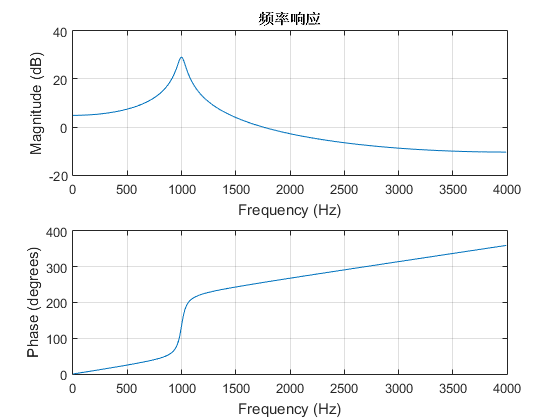
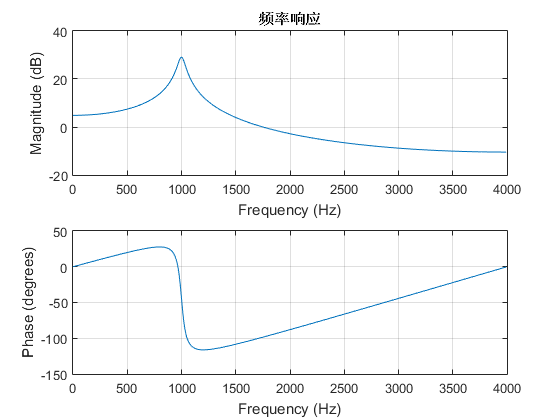
Fix z-transform mistake

diff --git a/README.md b/README.md
@@ -3,11 +3,11 @@ Homework No.2 for summer course: MATLAB
 
 ## 语音预测模型
 
-1. 给定 $e(n)=s(n)-a_1s(n-1)-a_2s(n-2)$
+1. 给定 $$e(n)=s(n)-a_1s(n-1)-a_2s(n-2)$$
 
-    1. 假设$e(n)$是输入信号, $s(n)$是输出信号, 则上述滤波器的传递函数为 $$H(s)=\frac{1}{1-a_1s-a_2s^2}$$
+    1. 假设$e(n)$是输入信号, $s(n)$是输出信号, 则上述滤波器的传递函数为 $$H(z)=\frac{z^2}{z^2-a_1z-a_2}$$
 
-    2. 如果$a_1=1.3789, a_2=-0.9506$, 则利用`[Z,P,K]=tf2zp(b,a)`或`roots(poly)`等函数可求出系统极点为 $$p_{1,2}=0.7253\pm 0.7252j=1.0257e^{\pm j0.7854}$$
+    2. 如果$a_1=1.3789, a_2=-0.9506$, 则利用`[Z,P,K]=tf2zp(b,a)`或`roots(poly)`等函数可求出系统极点为 $$p_{1,2}=0.6895\pm 0.6894j=0.9750e^{\pm j0.7854}$$
 
         根据共振峰频率的定义 $$f=\frac{\omega}{2\pi}=\frac{\Omega}{2\pi T}=\frac{\Omega f_s}{2\pi}=\frac{Arg(p)}{2\pi}f_s$$
 
@@ -17,13 +17,15 @@ Homework No.2 for summer course: MATLAB
 
         ![零极点图](pic/zplane.png)
 
-    4. 绘制**频率响应**, `freqz(1,[-a2,-a1,1],512,fs)`
+    4. 绘制**频率响应**, `freqz(b,a,512,fs)`
 
         ![频率响应](pic/freqz.png)
 
+        从频率响应图中也可直观地看出**共振峰频率**在1000Hz附近
+
     5. 绘制**单位样值响应**
 
-        * `impz(1,[-a2,-a1,1],512,fs)`
+        * `impz(b,a,512,fs)`
 
             ![impz](pic/impz.png)
 
@@ -32,7 +34,7 @@ Homework No.2 for summer course: MATLAB
             ```matlab
             x = zeros(1,512);
             x(1) = 1;
-            y = filter(1,[-a2,-a1,1],x);
+            y = filter(b,a,x);
             stem(0:1/fs:511/fs,y);
             ```
 
@@ -181,6 +183,8 @@ Homework No.2 for summer course: MATLAB
     return
     ```
 
-    
+3. 在`speechproc`运行至第27帧时观察预测系统的**零极点图**
+
+
 
 
